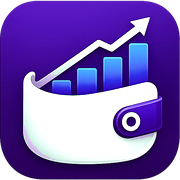
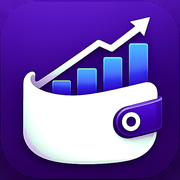
Corrige ícone "G roxo" no iOS ao reinstalar o PWA e ícone maskable no Android
O apple-touch-icon.png e os ícones do manifest (icon-192/icon-512) tinham
cantos arredondados com transparência já embutida na imagem (pensados
para preview de loja, não para uso direto como ícone de PWA). O iOS
descarta um apple-touch-icon com canal alfa e cai no fallback de
monograma — a letra "G" sobre a theme_color roxa que aparecia ao
reinstalar o app.

Achata os três ícones para full-bleed opaco (sem canal alfa, sem
arredondamento próprio) via inpainting dos cantos transparentes,
deixando cada plataforma aplicar sua própria máscara de cantos.

No Android, os ícones "maskable" do manifest apontavam para os mesmos
arquivos "any" — que não são full-bleed com safe-zone, então o recorte
adaptativo do launcher podia cortar partes do desenho. Gera
icon-192-maskable.png / icon-512-maskable.png dedicados (arte a 65% do
canvas, fundo sólido preenchendo o restante) e aponta o purpose
"maskable" dos três manifests para eles.

Bump do STATIC_CACHE_NAME do service worker para v2, já que esse cache
nunca é limpo em deploys normais (só quando o conteúdo do ícone muda) —
sem o bump, clientes com o ícone antigo já cacheado continuariam
servindo a versão quebrada.

Claude-Session: https://claude.ai/code/session_015jfmSkG7udLJBjK1wVQ82u

diff --git a/public/sw.js b/public/sw.js
@@ -4,7 +4,12 @@ const CACHE_NAME = 'gestao-financeira-v17'
 // nunca de nome de arquivo. Misturar com CACHE_NAME fazia o activate() apagar os ícones
 // a cada deploy, criando uma janela em que uma falha de rede podia fazer o iOS capturar
 // um ícone/splash quebrado ao recriar o atalho na tela de início.
-const STATIC_CACHE_NAME = 'gestao-financeira-static-v1'
+// v2: os PNGs de ícone tinham cantos arredondados com transparência já embutidos
+// (pensados para preview de loja, não para uso direto). O iOS descarta um
+// apple-touch-icon com canal alfa e cai no fallback de monograma (letra sobre
+// fundo da theme_color — o "G roxo" visto ao reinstalar o PWA). Bump força
+// clientes com o ícone antigo em cache a buscar a versão opaca/full-bleed.
+const STATIC_CACHE_NAME = 'gestao-financeira-static-v2'
 
 const OFFLINE_HTML = '<!DOCTYPE html><html lang="pt-BR"><head><meta charset="utf-8"><meta name="viewport" content="width=device-width,initial-scale=1"><title>Carregando…</title><script>setTimeout(function(){location.reload()},4000)<\/script></head><body style="font-family:sans-serif;display:flex;align-items:center;justify-content:center;min-height:100vh;margin:0"><p>Reconectando…</p></body></html>'
 const OFFLINE_RESPONSE = () => new Response(OFFLINE_HTML, { status: 200, headers: { 'Content-Type': 'text/html; charset=utf-8' } })
@@ -104,6 +109,8 @@ const PRECACHE_STATIC = [
   '/apple-touch-icon.png',
   '/icon-192.png',
   '/icon-512.png',
+  '/icon-192-maskable.png',
+  '/icon-512-maskable.png',
   '/splash-1125x2436.png',
   '/splash-1170x2532.png',
   '/splash-1179x2556.png',
